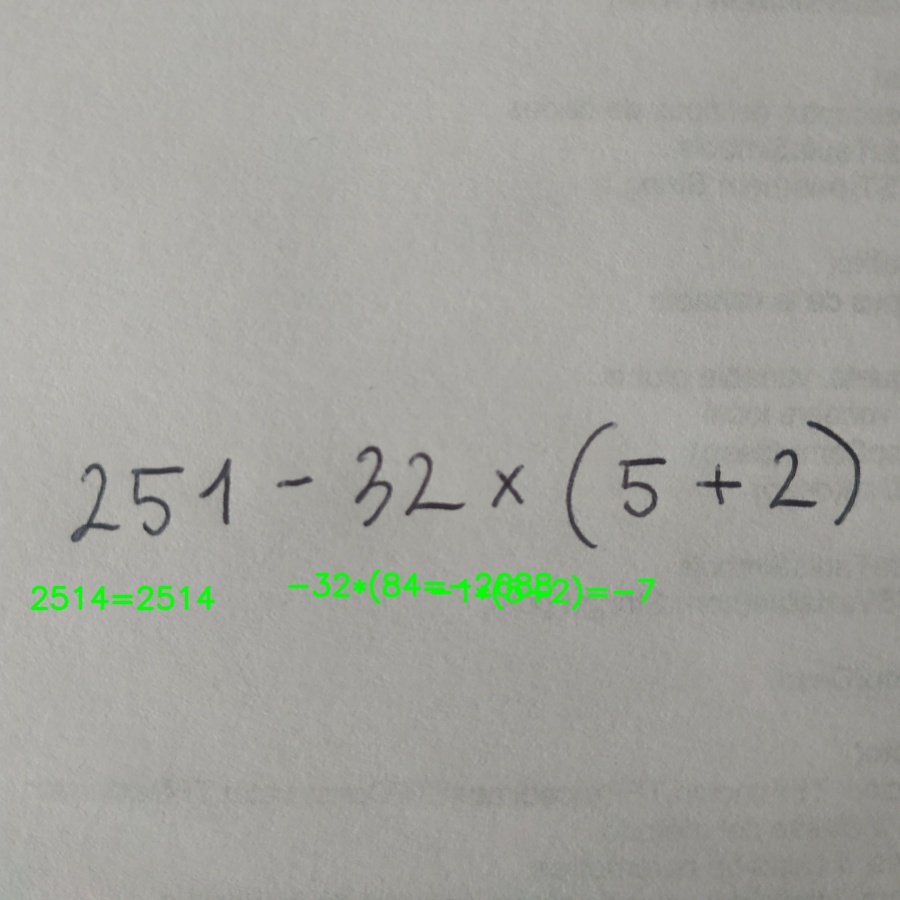
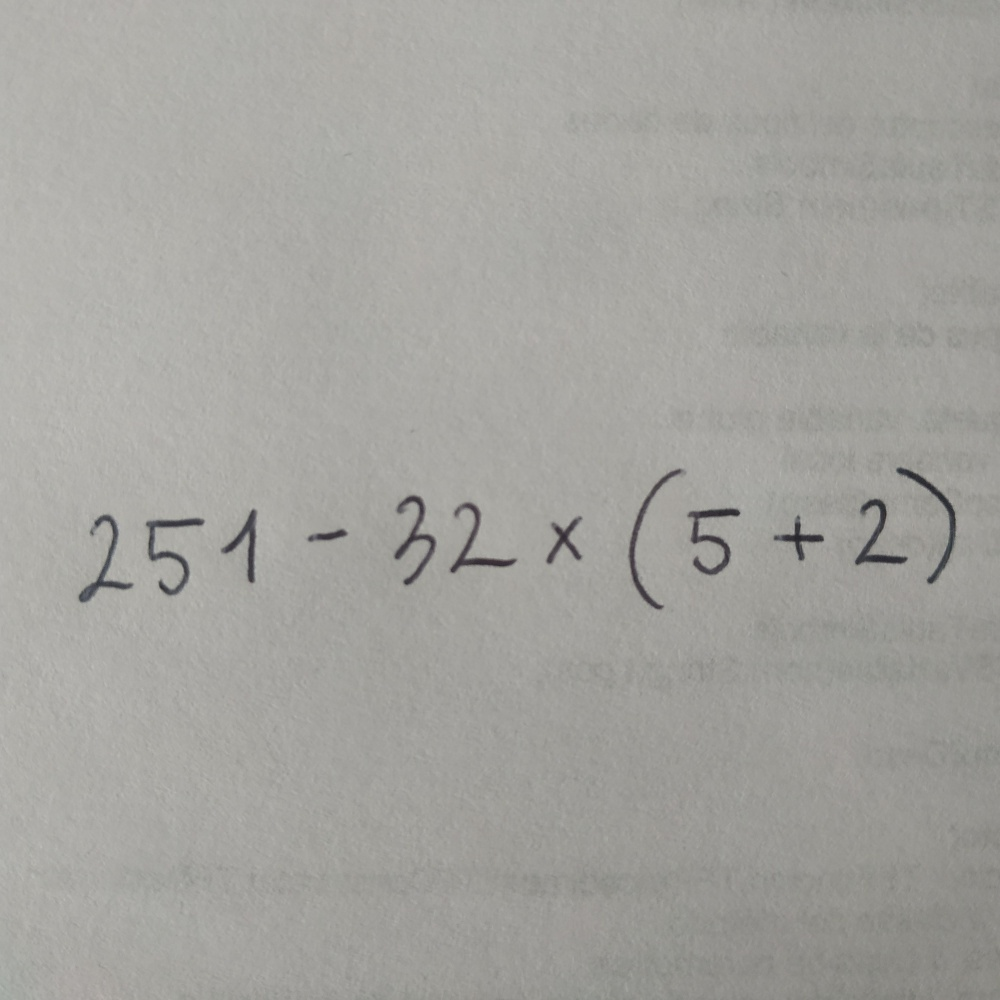
FIX: Some fixes

Changed region(s): [[0.3111, 0.6222, 0.7156, 0.6844], [0.0311, 0.6533, 0.2489, 0.6844], [0.7156, 0.6222, 0.7467, 0.6533]]

diff --git a/main.py b/main.py
@@ -7,7 +7,10 @@ from keras.models import load_model
 import os
 import json
 
+WORKING_IM_WIDTH = 1000
+WORKING_IM_HEIGHT = 1000
 DIGITS_SYMBOLS_MAPPING = "digits-symbols-mapping.json"
+
 # Load digits-symbols mapping from categorical to numerical
 with open(DIGITS_SYMBOLS_MAPPING, "r") as dig_sym_mapping_file:
     labels_mapping = json.load(dig_sym_mapping_file)["INV_DIGITS_SYMBOLS_MAPPING"]
@@ -28,9 +31,9 @@ try:
     ###################################################################
     try:
         ## SET WORKING IMAGE ##############################################
-        im_index = 0
+        im_index = 4
         working_im = working_ims[im_index]
-        working_im = resizeImage(working_im, 0.3)
+        working_im = resize_image_by_dim(working_im, WORKING_IM_WIDTH, WORKING_IM_HEIGHT)
         showImage(working_im)
         ###################################################################
 

diff --git a/utils.py b/utils.py
@@ -50,9 +50,9 @@ def get_boxes_as_images(boxes, img): # 'boxes' item:(start_x, start_y, end_x, en
 def write_message_on_img(img, message, position):
     RED = (0, 255, 0)
     font = cv2.FONT_HERSHEY_SIMPLEX
-    font_size = 1
+    font_size = 3
     font_color = RED
-    font_thickness = 2
+    font_thickness = 4
 
     img_text = cv2.putText(img, message, position, font, font_size, font_color, font_thickness, cv2.LINE_AA)
 

diff --git a/solving_expression_module.py b/solving_expression_module.py
@@ -61,6 +61,7 @@ def solve_expression(math_exp):
             result = str_math_exp
     except:
         result = ""
+        print('Could not process the input espression: ', str_math_exp)
 
     return str_math_exp, str(result)
 
